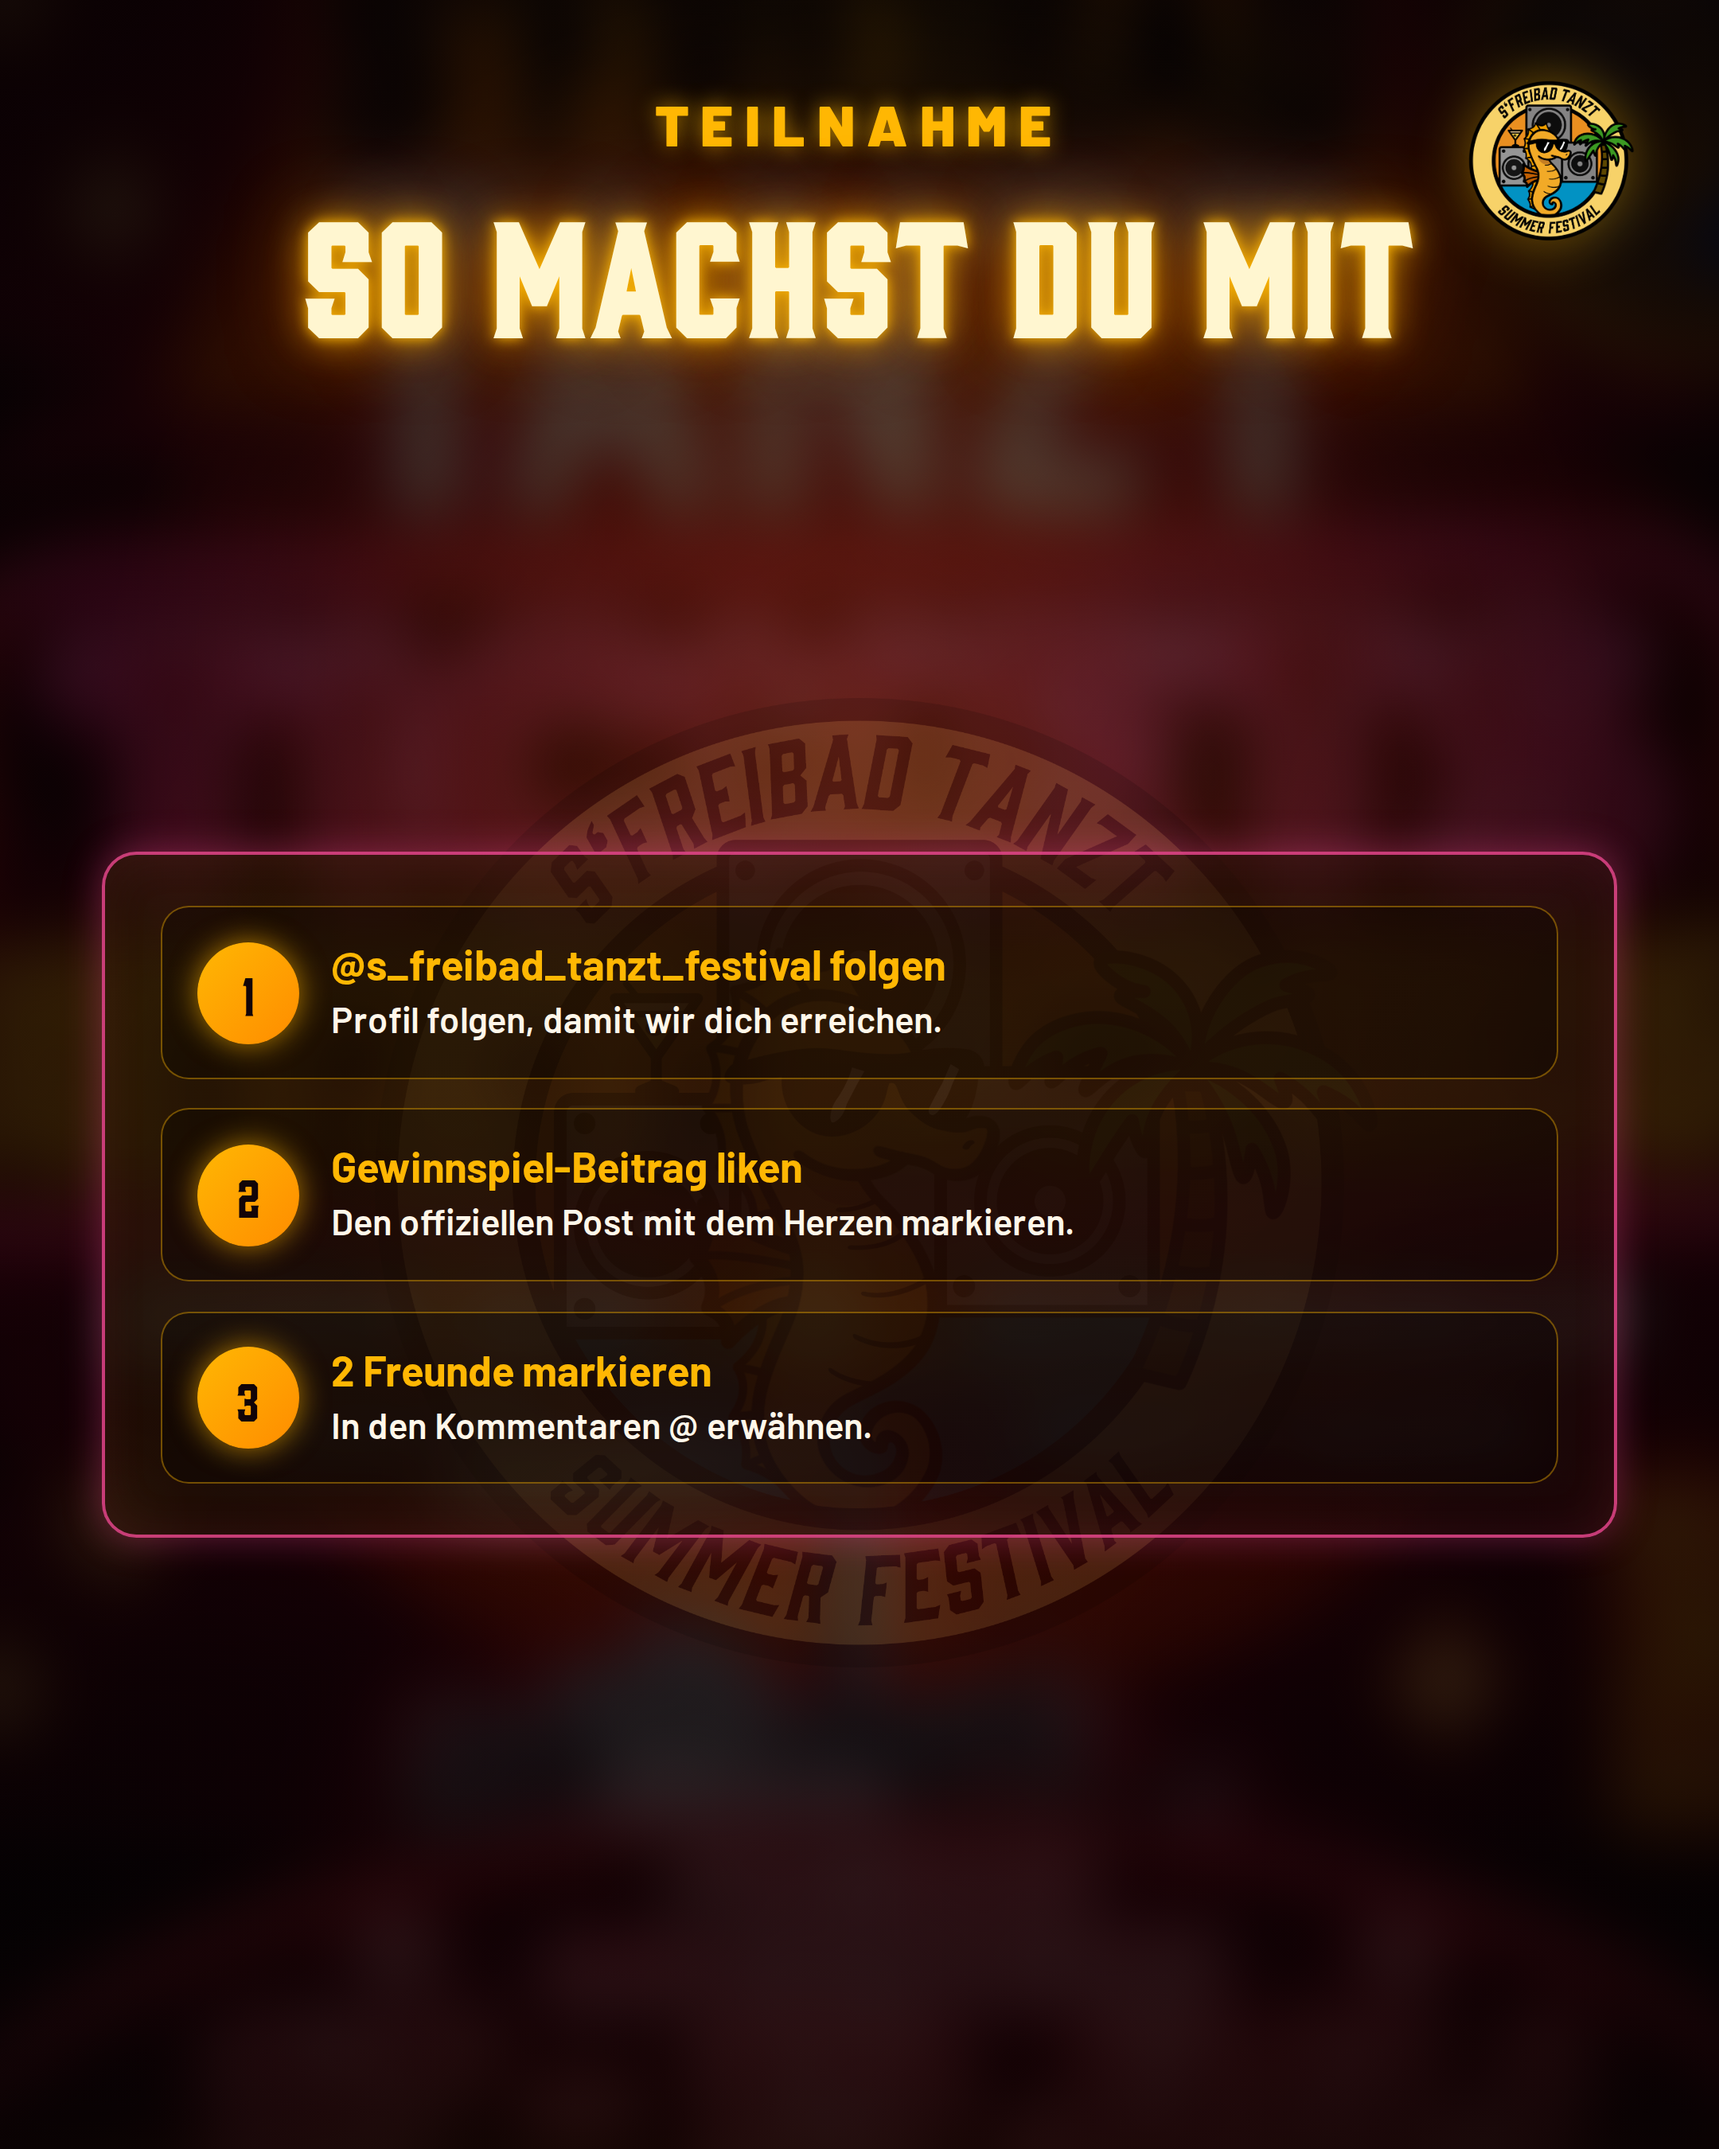
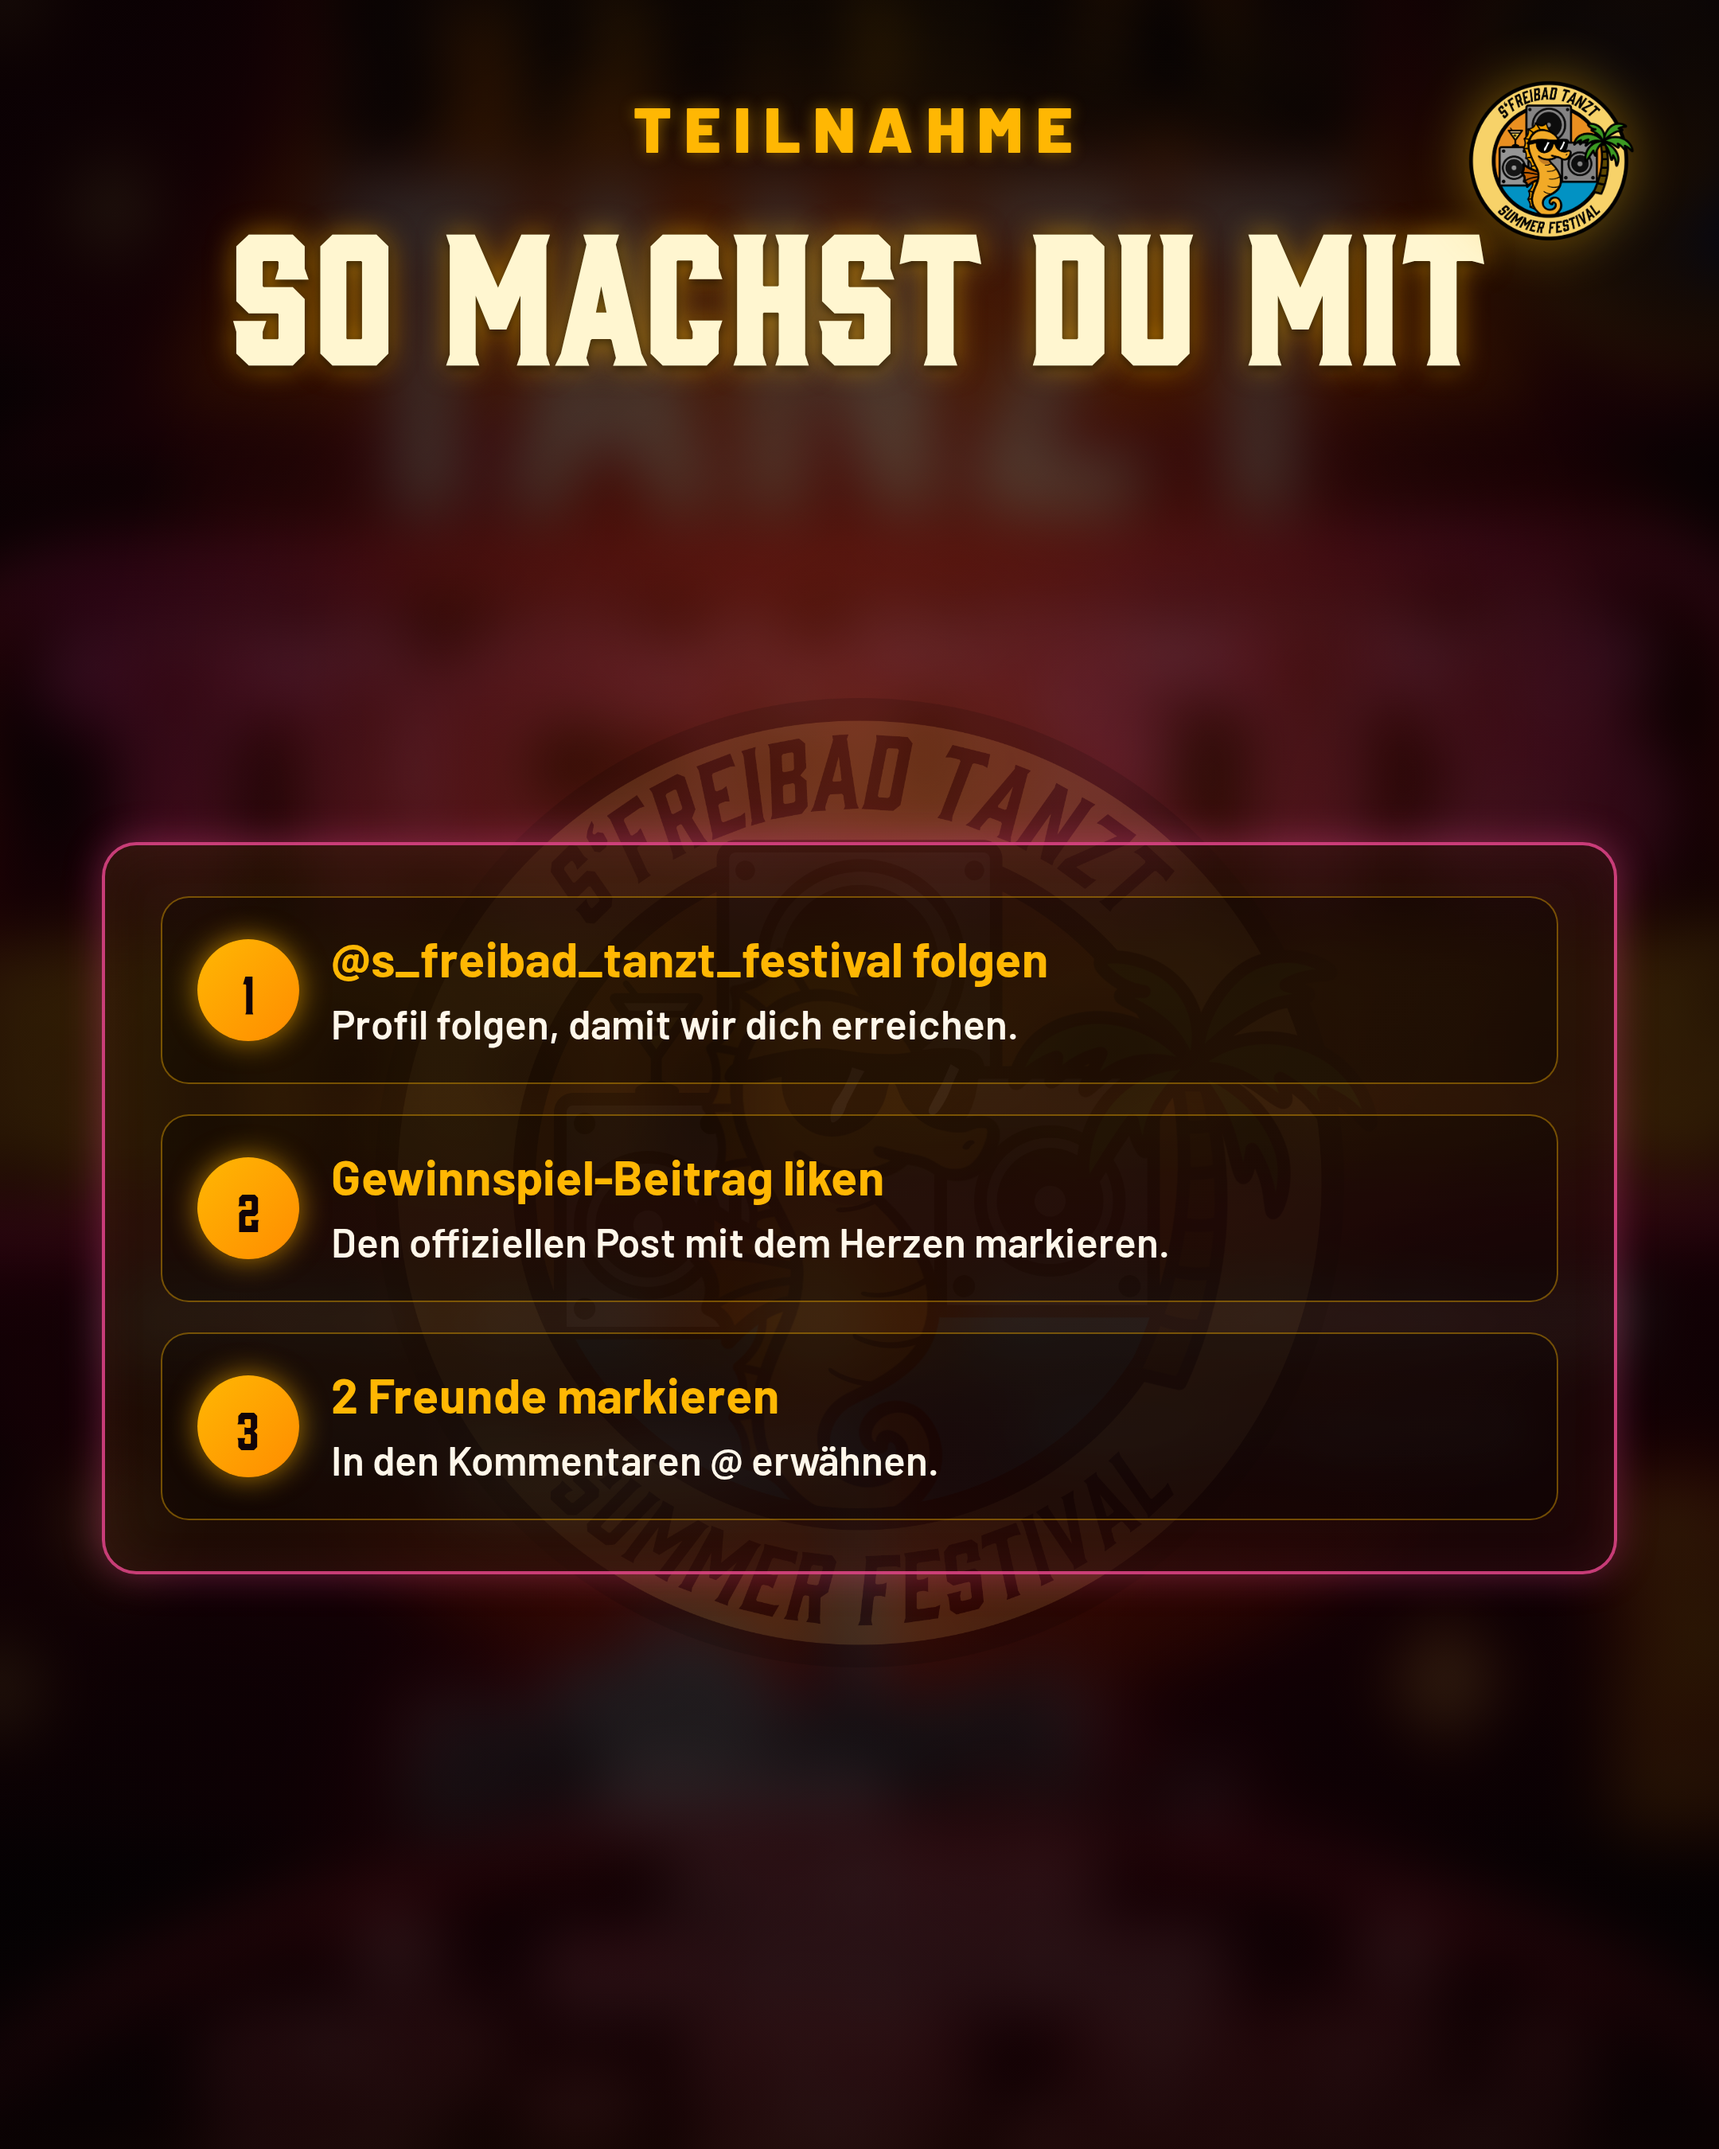
Gewinnspiel: größere Schriften und dezenteres Glow für bessere Lesbarkeit

diff --git a/exports/gewinnspiel-template.html b/exports/gewinnspiel-template.html
@@ -63,36 +63,34 @@
     }
 
     .label {
-      font-size: 36px;
+      font-size: 40px;
       font-weight: 900;
       letter-spacing: 0.2em;
       text-transform: uppercase;
       color: #ffb703;
       text-align: center;
-      text-shadow: 0 0 14px rgba(255, 183, 3, 0.7);
+      text-shadow: 0 0 10px rgba(255, 183, 3, 0.45);
     }
 
     .title {
       margin-top: 22px;
       font-family: "Gin Test", Impact, sans-serif;
-      font-size: 92px;
-      line-height: 1.03;
+      font-size: 104px;
+      line-height: 1.02;
       letter-spacing: 0.03em;
       text-transform: uppercase;
       text-align: center;
       color: #fff;
       text-shadow:
-        0 0 8px rgba(255, 77, 158, 0.9),
-        0 0 24px rgba(255, 77, 158, 0.75),
-        0 0 48px rgba(255, 20, 120, 0.45);
+        0 2px 6px rgba(0, 0, 0, 0.55),
+        0 0 18px rgba(255, 77, 158, 0.5);
     }
 
     .title--yellow {
       color: #fff6d0;
       text-shadow:
-        0 0 8px rgba(255, 183, 3, 0.95),
-        0 0 24px rgba(255, 183, 3, 0.8),
-        0 0 48px rgba(255, 120, 0, 0.5);
+        0 2px 6px rgba(0, 0, 0, 0.55),
+        0 0 18px rgba(255, 183, 3, 0.55);
     }
 
     .logo {
@@ -137,19 +135,19 @@
     .panel h3 {
       margin-bottom: 1.1rem;
       font-family: "Gin Test", Impact, sans-serif;
-      font-size: 2.7rem;
+      font-size: 3rem;
       letter-spacing: 0.04em;
       text-transform: uppercase;
       color: #ffb703;
-      text-shadow: 0 0 16px rgba(255, 183, 3, 0.55);
+      text-shadow: 0 0 10px rgba(255, 183, 3, 0.4);
     }
 
     .panel p,
     .panel li {
-      font-size: 1.72rem;
+      font-size: 1.95rem;
       font-weight: 700;
       line-height: 1.5;
-      color: rgba(255, 247, 234, 0.96);
+      color: rgba(255, 247, 234, 0.98);
     }
 
     .panel ul {
@@ -178,23 +176,23 @@
 
     .big-prize {
       font-family: "Gin Test", Impact, sans-serif;
-      font-size: 4rem;
-      line-height: 1.1;
+      font-size: 4.5rem;
+      line-height: 1.08;
       text-align: center;
       letter-spacing: 0.03em;
       text-transform: uppercase;
       color: #fff;
       text-shadow:
-        0 0 10px rgba(255, 77, 158, 0.9),
-        0 0 28px rgba(255, 77, 158, 0.7);
+        0 2px 6px rgba(0, 0, 0, 0.55),
+        0 0 16px rgba(255, 77, 158, 0.5);
     }
 
     .sub {
       margin-top: 1.1rem;
       text-align: center;
-      font-size: 1.6rem;
+      font-size: 1.8rem;
       font-weight: 700;
-      color: rgba(255, 247, 234, 0.92);
+      color: rgba(255, 247, 234, 0.94);
     }
 
     .steps {
@@ -228,13 +226,13 @@
 
     .step strong {
       display: block;
-      font-size: 1.65rem;
-      margin-bottom: 0.25rem;
+      font-size: 1.9rem;
+      margin-bottom: 0.3rem;
       color: #ffb703;
     }
 
     .step span {
-      font-size: 1.42rem;
+      font-size: 1.6rem;
       font-weight: 600;
       line-height: 1.4;
     }
@@ -242,23 +240,21 @@
     .cta {
       margin-top: auto;
       text-align: center;
-      padding: 1.5rem 1.8rem;
+      padding: 1.6rem 1.9rem;
       border-radius: 999px;
       font-family: "Gin Test", Impact, sans-serif;
-      font-size: 1.95rem;
+      font-size: 2.2rem;
       letter-spacing: 0.05em;
       text-transform: uppercase;
       color: #120408;
       background: linear-gradient(135deg, #ffb703, #ff8c00);
-      box-shadow:
-        0 0 20px rgba(255, 183, 3, 0.75),
-        0 0 40px rgba(255, 120, 0, 0.35);
+      box-shadow: 0 0 22px rgba(255, 183, 3, 0.5);
     }
 
     .handle {
       margin-top: 1.15rem;
       text-align: center;
-      font-size: 1.55rem;
+      font-size: 1.75rem;
       font-weight: 800;
       letter-spacing: 0.08em;
       color: #ffb703;
@@ -280,10 +276,10 @@
       pointer-events: none;
     }
 
-    .vertical .title { font-size: 82px; }
+    .vertical .title { font-size: 96px; }
     .vertical .panel p,
-    .vertical .panel li { font-size: 1.55rem; }
-    .vertical .big-prize { font-size: 3.8rem; }
+    .vertical .panel li { font-size: 2rem; }
+    .vertical .big-prize { font-size: 4.2rem; }
     .vertical .content { padding-top: 120px; padding-bottom: 96px; }
 
     .ticket-fan {
